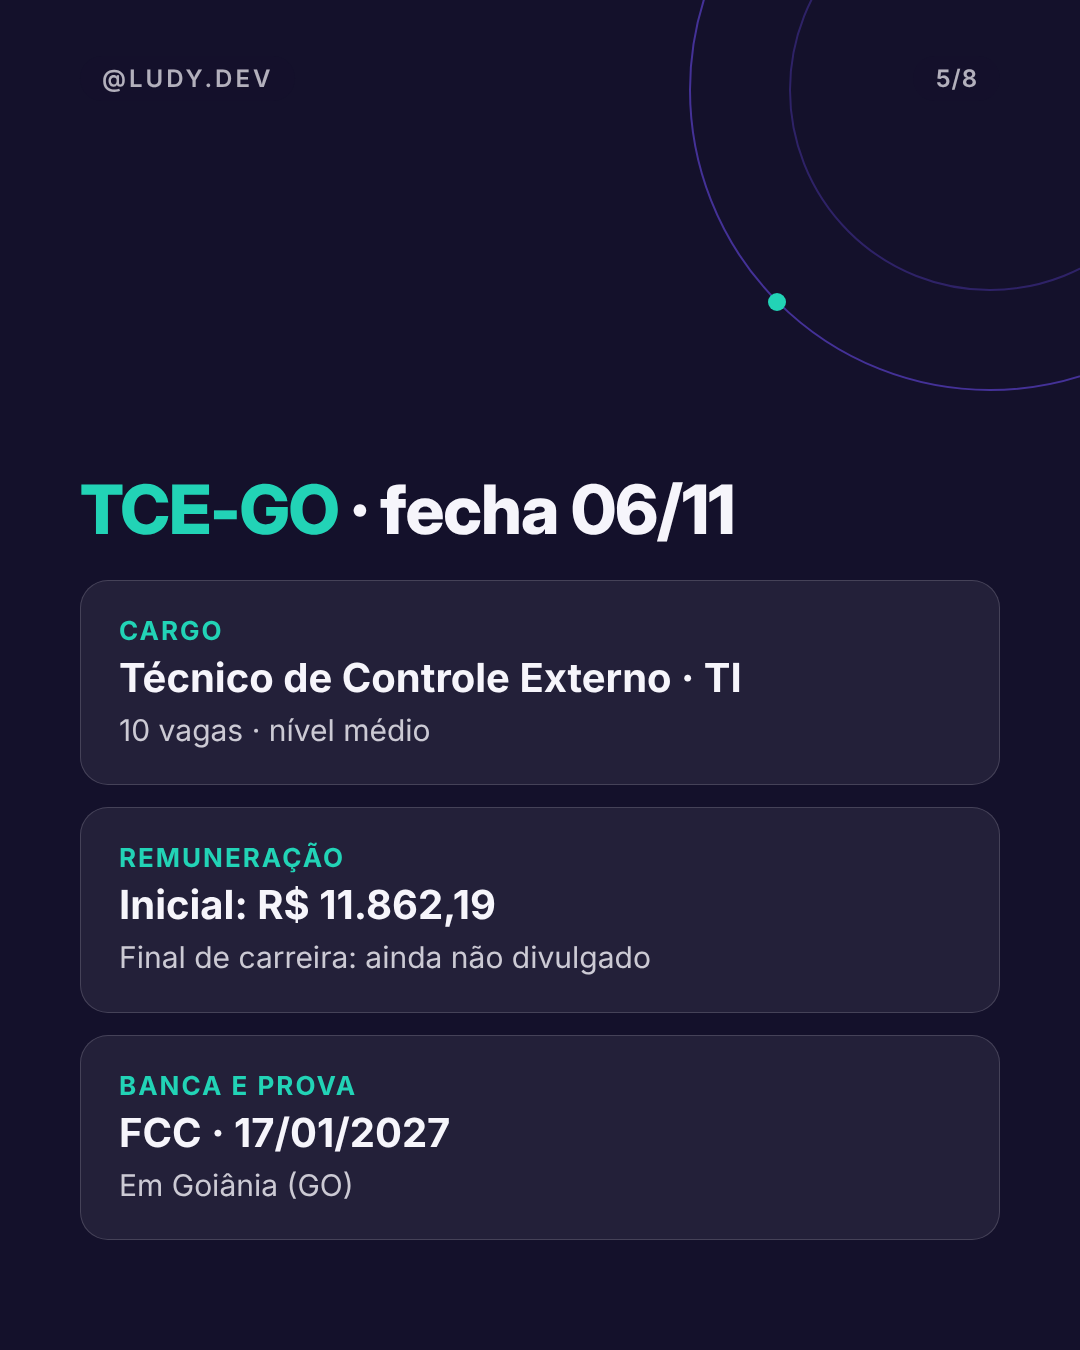
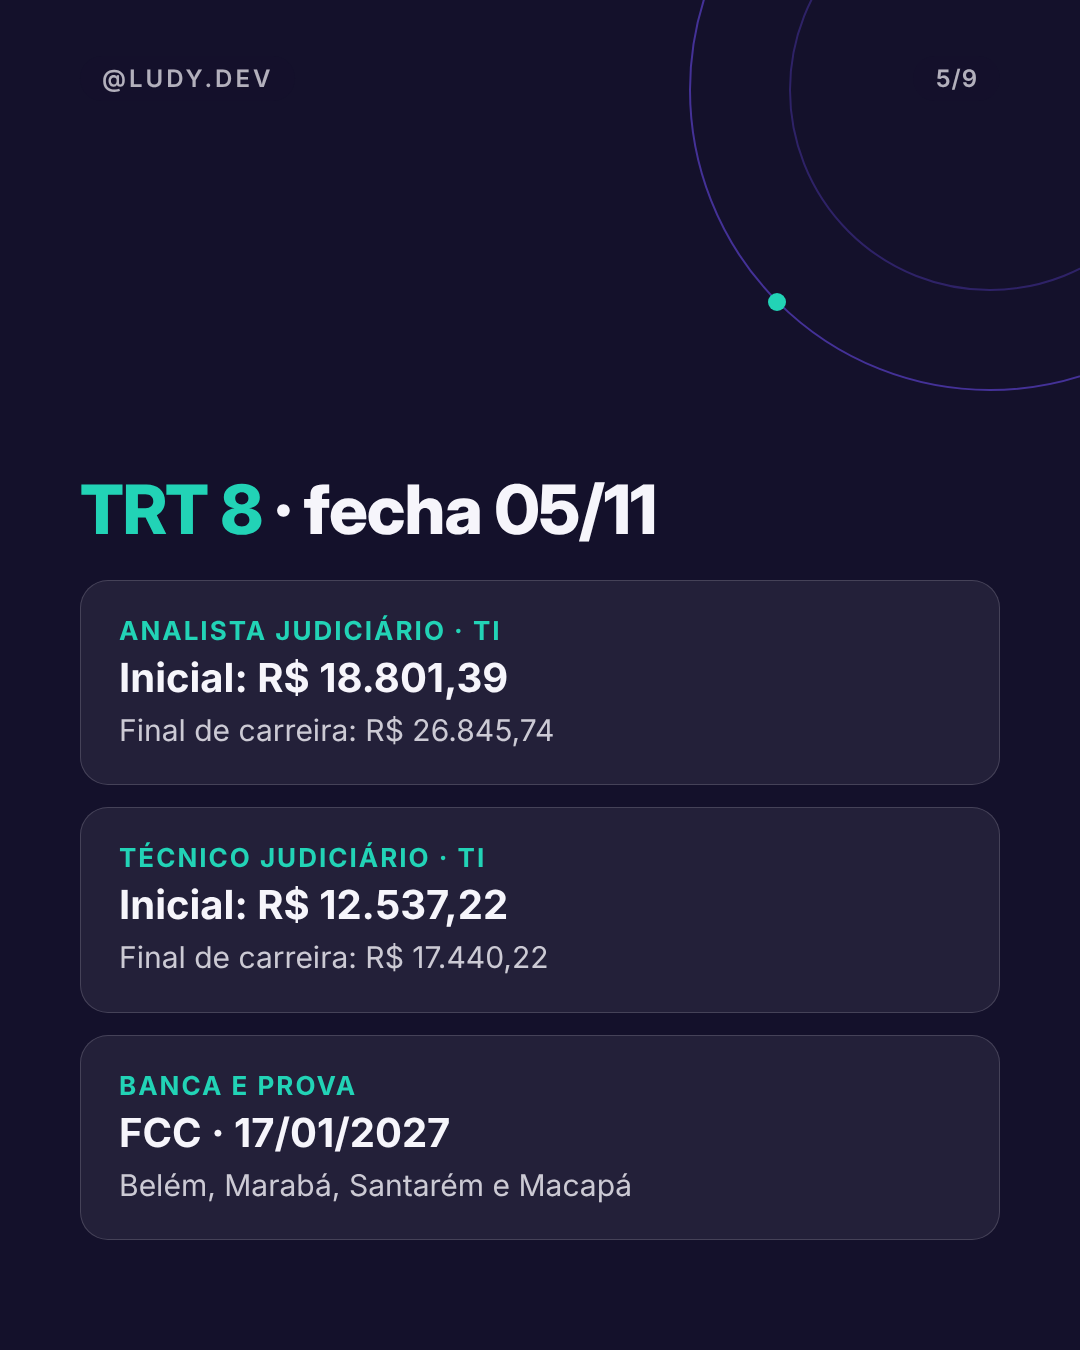
Lista de concursos abertos: card do TRT-4 como slide 2

diff --git a/_ferramentas/plano_10k.py b/_ferramentas/plano_10k.py
@@ -12,16 +12,19 @@ def seguir(extra=""):
 POSTS = {}
 
 # 1 — 21/10 18h · panorama inscrições abertas
-T = 8
+T = 9
+NOVO = ('<span style="display:inline-block;background:#6C4CF1;color:#F6F5FB;font-weight:800;font-size:26px;'
+        'letter-spacing:2px;border-radius:14px;padding:8px 20px;margin-bottom:26px">EDITAL NOVO · SAIU EM 22/10</span>')
 POSTS["21-18h"] = [
- page_a(badge() + '<h1><span class="c">5 concursos</span> de TI com inscrições abertas <span class="v">agora</span></h1><div class="sub">Do prazo mais curto ao mais longo. Arrasta →</div>', 1, T, photo="fotos/gabarito-caneta-unsplash.jpg", panel=True),
- page_a('<h2><span class="c">SEFAZ SP</span> · fecha 03/11</h2>' + card("Cargo", "APOFP · Ciência de Dados e TI", "20 vagas · qualquer graduação") + card("Remuneração", "Inicial: R$ 11.359,50", "Final de carreira: R$ 18 mil a R$ 20 mil") + card("Banca e prova", "FCC · 13/12/2026", "Em São Paulo (SP)"), 2, T, minimal=True),
- page_a('<h2><span class="c">CGU</span> · fecha 04/11</h2>' + card("Cargo", "Auditor Federal de Finanças e Controle · TI", "30 vagas · qualquer graduação") + card("Remuneração", "Inicial: R$ 20.000,00", "Final de carreira: R$ 36.694,00") + card("Banca e prova", "Cebraspe · 13/12/2026", "Nas 27 capitais"), 3, T, minimal=True),
- page_a('<h2><span class="c">TRT 8</span> · fecha 05/11</h2>' + card("Analista Judiciário · TI", "Inicial: R$ 18.801,39", "Final de carreira: R$ 26.845,74") + card("Técnico Judiciário · TI", "Inicial: R$ 12.537,22", "Final de carreira: R$ 17.440,22") + card("Banca e prova", "FCC · 17/01/2027", "Belém, Marabá, Santarém e Macapá"), 4, T, minimal=True),
- page_a('<h2><span class="c">TCE-GO</span> · fecha 06/11</h2>' + card("Cargo", "Técnico de Controle Externo · TI", "10 vagas · nível médio") + card("Remuneração", "Inicial: R$ 11.862,19", "Final de carreira: ainda não divulgado") + card("Banca e prova", "FCC · 17/01/2027", "Em Goiânia (GO)"), 5, T, minimal=True),
- page_a('<h2><span class="c">TJ-PB</span> · fecha 18/11</h2>' + card("Cargo", "Analista Judiciário · TI", "20 vagas") + card("Remuneração", "Inicial: R$ 11.526,14", "Final de carreira: R$ 19.212,35") + card("Banca e prova", "FGV · 24/01/2027", "Na Paraíba"), 6, T, minimal=True),
- page_a('<h2>Dá pra fazer <span class="v">mais de um</span>?</h2><p>Sim. CGU e SEFAZ SP caem no <b>mesmo dia (13/12)</b>, então ali é escolher um. Já TRT 8, TCE-GO e TJ-PB ficam em janeiro.</p><p class="sub">Aproveite que TRT-8 (PA e AP), TCE-GO e SEFAZ-SP são da mesma banca (FCC).</p>', 7, T, minimal=True),
- page_a('<h2>Salva pra não perder os <span class="c">prazos</span>.</h2><p>E manda pra aquele amigo de TI que vive dizendo que um dia vai estudar pra concurso.</p>' + seguir(), 8, T, minimal=True),
+ page_a(badge() + '<h1><span class="c">5 concursos</span> de TI com inscrições abertas <span class="v">agora</span></h1><div class="sub">+ bônus: o edital do TRT-4 acabou de sair. Arrasta →</div>', 1, T, photo="fotos/gabarito-caneta-unsplash.jpg", panel=True),
+ page_a(NOVO + '<h2><span class="c">TRT-4 (RS)</span> · abre 26/10</h2>' + card("Inscrições", "26/10 a 25/11", "Cadastro reserva · FCC") + card("Analista Judiciário · TI", "Inicial: R$ 16.040,88", "Superior em Informática (ou outra graduação + pós em Informática)") + card("Técnico Judiciário · TI", "Inicial: R$ 9.776,71", "Nível superior + qualificação em TI prevista no edital") + card("Prova", "31/01/2027", "Em Porto Alegre (RS)"), 2, T, minimal=True),
+ page_a('<h2><span class="c">SEFAZ SP</span> · fecha 03/11</h2>' + card("Cargo", "APOFP · Ciência de Dados e TI", "20 vagas · qualquer graduação") + card("Remuneração", "Inicial: R$ 11.359,50", "Final de carreira: R$ 18 mil a R$ 20 mil") + card("Banca e prova", "FCC · 13/12/2026", "Em São Paulo (SP)"), 3, T, minimal=True),
+ page_a('<h2><span class="c">CGU</span> · fecha 04/11</h2>' + card("Cargo", "Auditor Federal de Finanças e Controle · TI", "30 vagas · qualquer graduação") + card("Remuneração", "Inicial: R$ 20.000,00", "Final de carreira: R$ 36.694,00") + card("Banca e prova", "Cebraspe · 13/12/2026", "Nas 27 capitais"), 4, T, minimal=True),
+ page_a('<h2><span class="c">TRT 8</span> · fecha 05/11</h2>' + card("Analista Judiciário · TI", "Inicial: R$ 18.801,39", "Final de carreira: R$ 26.845,74") + card("Técnico Judiciário · TI", "Inicial: R$ 12.537,22", "Final de carreira: R$ 17.440,22") + card("Banca e prova", "FCC · 17/01/2027", "Belém, Marabá, Santarém e Macapá"), 5, T, minimal=True),
+ page_a('<h2><span class="c">TCE-GO</span> · fecha 06/11</h2>' + card("Cargo", "Técnico de Controle Externo · TI", "10 vagas · nível médio") + card("Remuneração", "Inicial: R$ 11.862,19", "Final de carreira: ainda não divulgado") + card("Banca e prova", "FCC · 17/01/2027", "Em Goiânia (GO)"), 6, T, minimal=True),
+ page_a('<h2><span class="c">TJ-PB</span> · fecha 18/11</h2>' + card("Cargo", "Analista Judiciário · TI", "20 vagas") + card("Remuneração", "Inicial: R$ 11.526,14", "Final de carreira: R$ 19.212,35") + card("Banca e prova", "FGV · 24/01/2027", "Na Paraíba"), 7, T, minimal=True),
+ page_a('<h2>Dá pra fazer <span class="v">mais de um</span>?</h2><p>Sim. CGU e SEFAZ SP caem no <b>mesmo dia (13/12)</b>, então ali é escolher um. Já TRT 8, TCE-GO e TJ-PB ficam em janeiro.</p><p class="sub">Aproveite que TRT-8 (PA e AP), TCE-GO e SEFAZ-SP são da mesma banca (FCC).</p>', 8, T, minimal=True),
+ page_a('<h2>Salva pra não perder os <span class="c">prazos</span>.</h2><p>E manda pra aquele amigo de TI que vive dizendo que um dia vai estudar pra concurso.</p>' + seguir(), 9, T, minimal=True),
 ]
 
 # 2 — 22/10 10h · B: o que do seu dia a dia já cai na CGU
